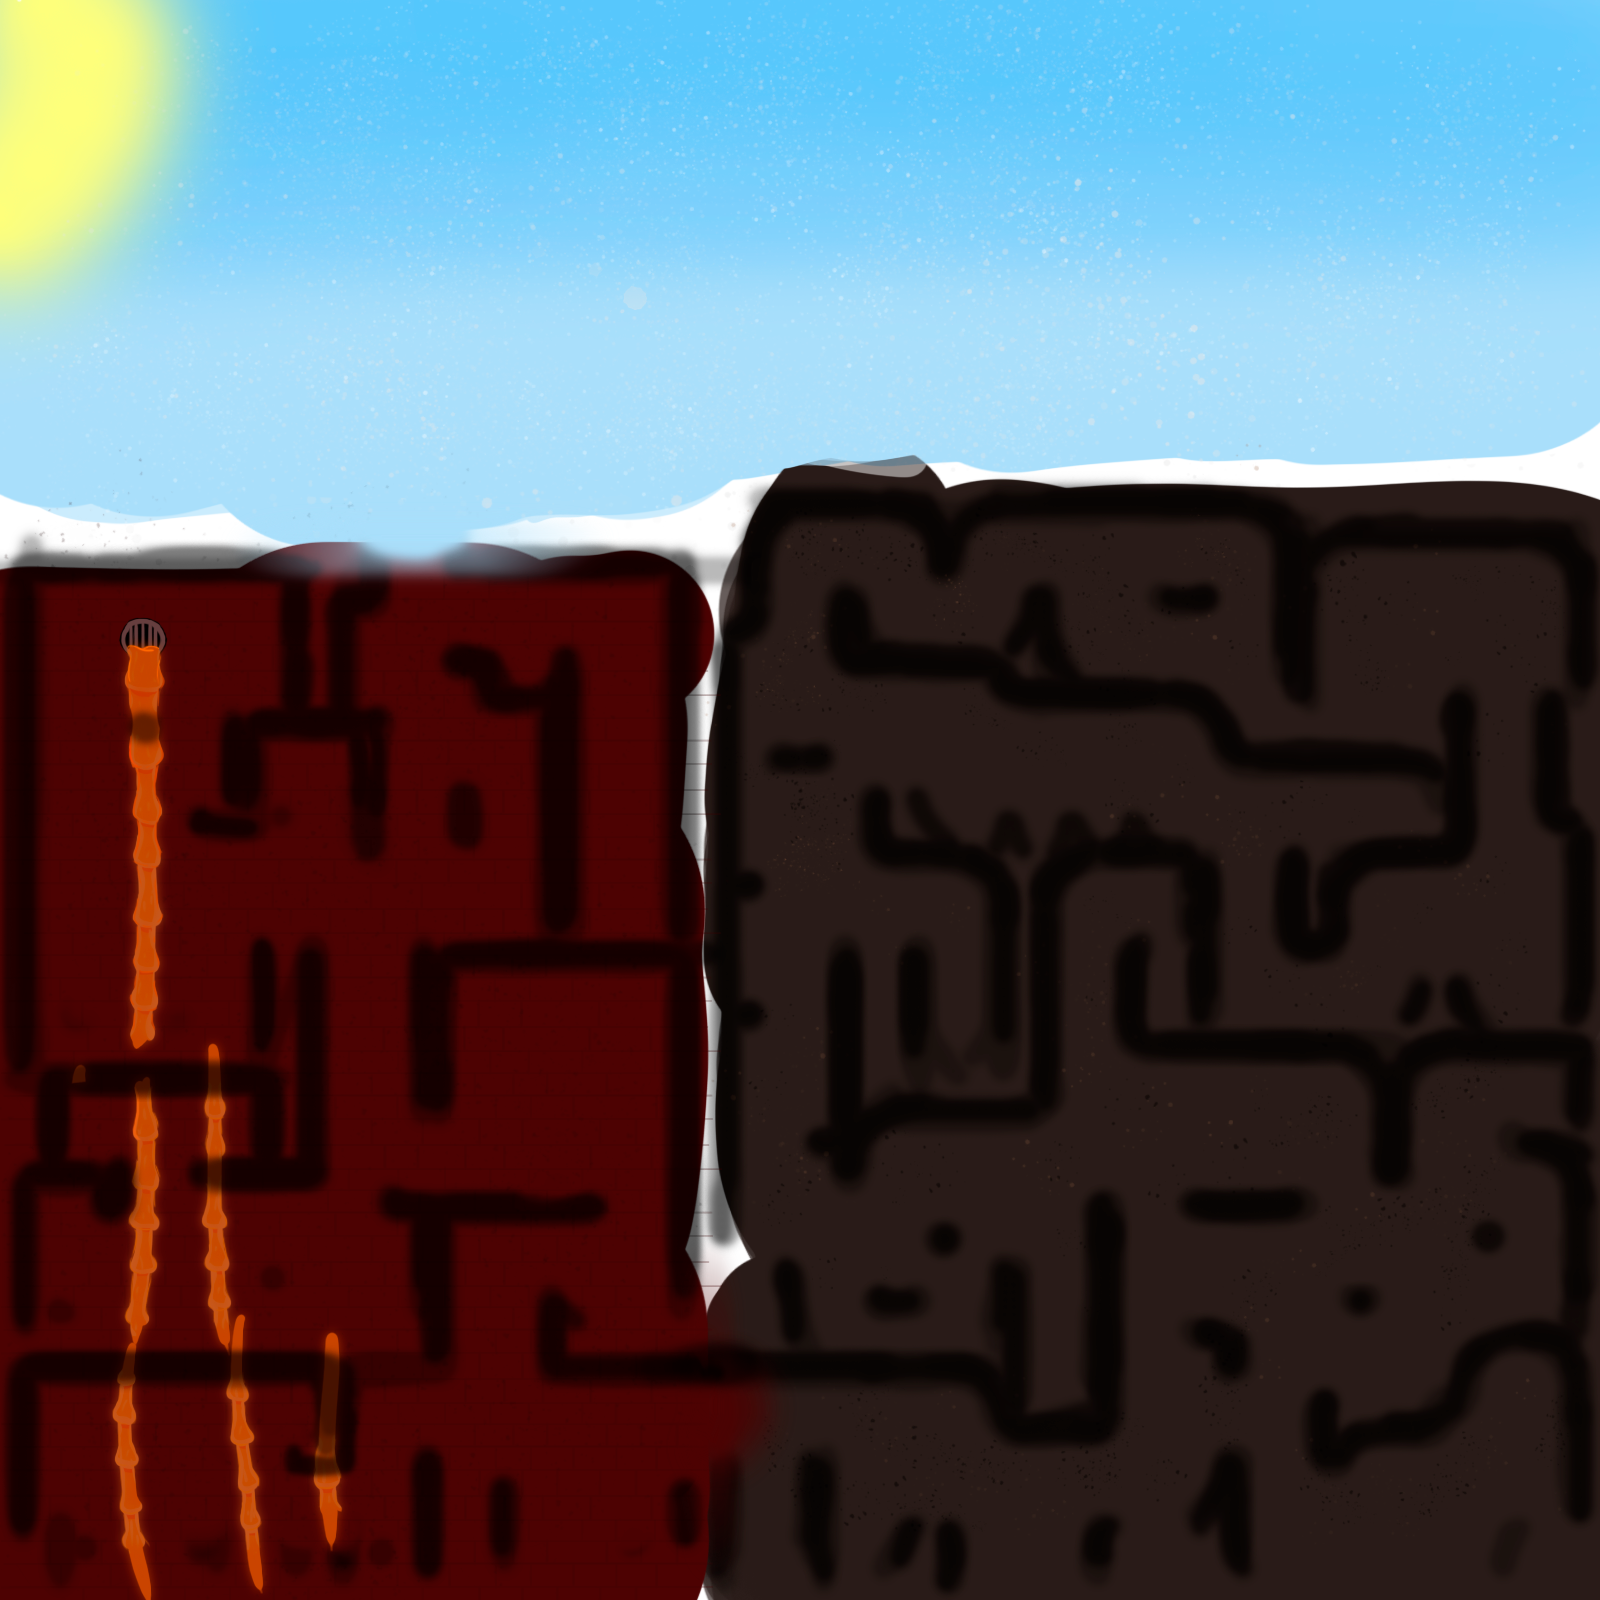
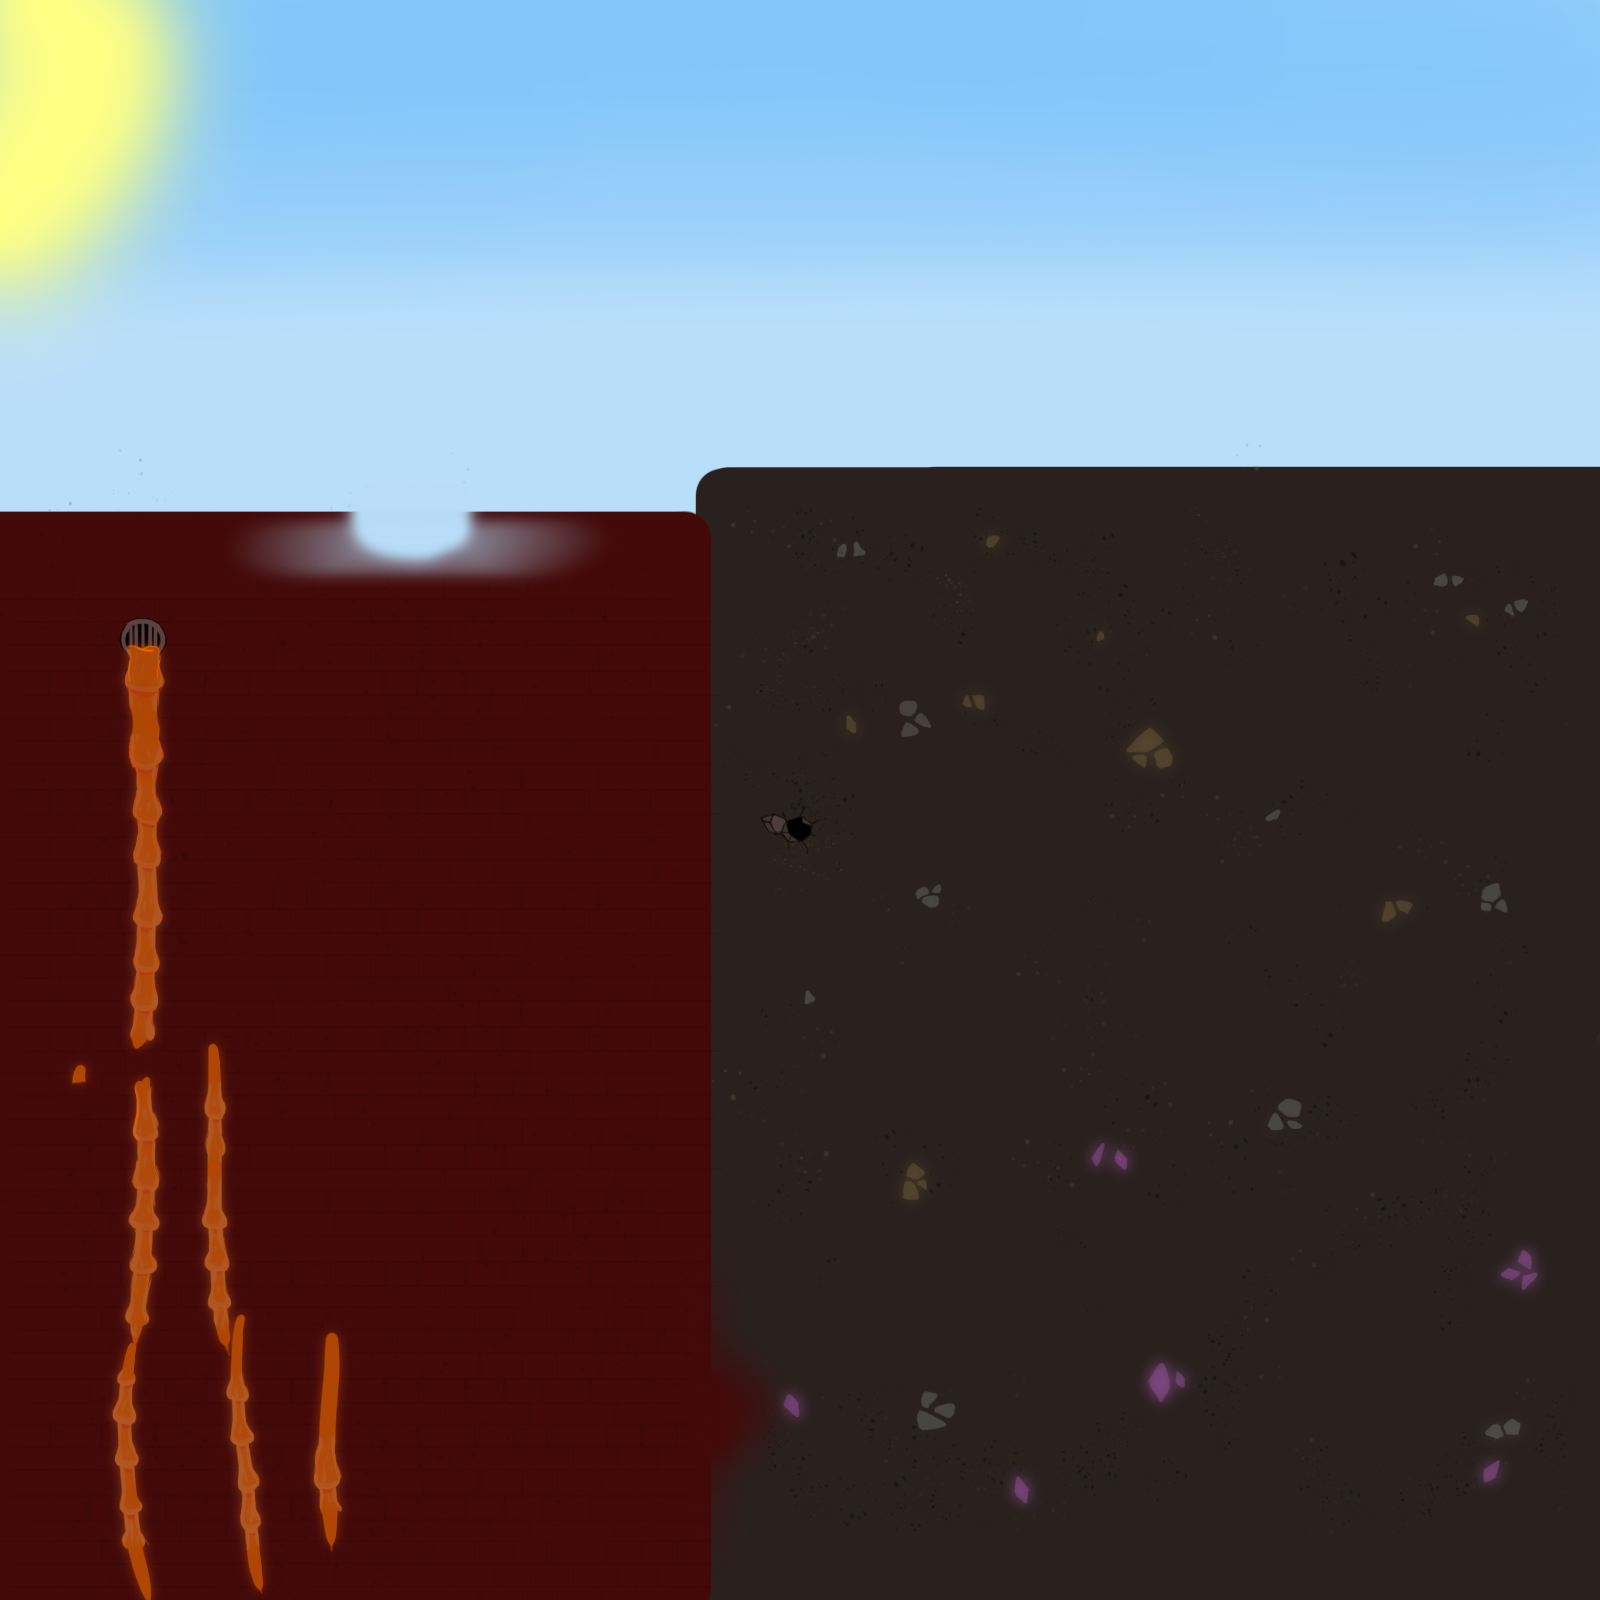
parallax et début d'implémentation ennemi

diff --git a/Souls Guardian.html b/Souls Guardian.html
@@ -83,6 +83,12 @@
                             { frameWidth: 32, frameHeight: 48 });
                     }
 
+                    // Préchargement apparence monstre
+                    this.load.image('monsterRightApparence', 'assets/monstre_right.png');
+                    this.load.image('monsterLeftApparence', 'assets/monstre_left.png');
+
+                    this.load.image('BordureEnnemi', 'assets/perso2.png');
+
                 // FONCTION CREATE - Gère le stade initial du jeu
 
                 function create(){
@@ -91,21 +97,16 @@
 
                         // NIVEAU - ajout des images de background
 
-                        /*this.background = this.game.add.tileSprite(0,
-                            this.game.height - this.game.cache.getImage('background').height,
-                            this.game.width,
-                            this.game.cache.getImage('background').height,
-                            'background'
-                        );
-                        this.secondPlan = this.game.add.tileSprite(0,
-                            this.game.height - this.game.cache.getImage('secondPlan').height,
-                            this.game.width,
-                            this.game.cache.getImage('secondPlan').height,
-                            'secondPlan'
-                        );*/
+                        this.backgroundParallax = this.add.tileSprite(0, 0, 1600, 1600, "background");
+                        this.backgroundParallax.setOrigin(0, 0);
+                        this.backgroundParallax.setScrollFactor(0.5, 1);
 
-                        this.add.image(800, 800, 'background')/*.setScrollFactorX(0.05)*/;
-                        this.add.image(800, 800, 'secondPlan')/*.setScrollFactorX(0.3)*/;
+                        this.sndPlanParallax = this.add.tileSprite(0, 0, 1600, 1600, "secondPlan");
+                        this.sndPlanParallax.setOrigin(0, 0);
+                        this.sndPlanParallax.setScrollFactor(0.9, 1);
+
+                        /*this.add.image(800, 800, 'background')/*.setScrollFactorX(0.05)*/;
+                        /*this.add.image(800, 800, 'secondPlan')/*.setScrollFactorX(0.3)*/;
 
                         // NIVEAU - Intégration de la map de TILED
                             // chargement de la carte
@@ -143,8 +144,9 @@
                                     tileset
                                     );
 
+                            esprits = this.physics.add.staticGroup();
                             espritsLayer = carteDuNiveau.getObjectLayer('espritsLayer')['objects'];
-                        
+
                         // NIVEAU - Plateformes solides
                         plateformes.setCollisionByProperty({estSolide: true });
 
@@ -165,21 +167,42 @@
 
                     //COLLECTIBLES
 
-                        esprits = this.physics.add.staticGroup();
-
                         espritsLayer.forEach(object => {
-                        let obj = esprits.create(object.x, object.y, 'espritCollectible');
+                        let obj = esprits.create(object.x + 16, object.y -16, 'espritCollectible');
                             obj.setScale(object.width/32, object.height/32);
                             obj.body.width = object.width;
                             obj.body.height = object.height;
                         });
 
+                    //Création monstre droite
+                    
+                    monstresRight = this.physics.add.group();
+                    monstresRightLayer = carteDuNiveau.getObjectLayer('monsterRightApparence');
+                    monstresRightLayer.objects.forEach( monstresRightLayer => {
+                        const MmonstresRightLayer = monstresRight.create( monstresRightLayer.x + 16, monstresRightLayer.y + 16, "monsterRightApparence").body.setAllowGravity(false).setBounce(1);
+                    });
+                    monstresRight.setVelocity(0, 150);
 
+                    //Création monstre gauche
+
+                    monstresLeft = this.physics.add.group();
+                    monstresLeftLayer = carteDuNiveau.getObjectLayer('monsterLeftApparence');
+                    monstresLeftLayer.objects.forEach( monstresLeftLayer => {
+                        const MMonstresLeftLayer = monstresLeft.create( monstresLeftLayer.x + 16, monstresLeftLayer.y + 16, "monsterLeftApparence").body.setAllowGravity(false).setBounce(1);
+                    });
+                    monstresLeft.setVelocity(0, 150);
+
+                    //Création des Bordures délimitant les déplacements des Ennemis
+                    limitesMonstres = this.physics.add.group();
+                    limitesMonstresLayer = carteDuNiveau.getObjectLayer('BordureEnnemi');
+                    limitesMonstresLayer.objects.forEach( limitesMonstresLayer => {
+                        const LimitesMonstresLayer = limitesMonstres.create( limitesMonstresLayer.x + 16, limitesMonstresLayer.y +16, "BordureEnnemi").body.setAllowGravity(false).setImmovable(true);
+                    });                
 
                     // PLAYER
 
                         // PLAYER - génération du sprite du personnage aux coordonnées, à partir de la sprite sheet (png avec les animations du perso)
-                        player = this.physics.add.sprite(1352, 680, 'perso');
+                        player = this.physics.add.sprite(10, 10, 'perso');
 
                         // PLAYER - Collision entre le joueur et les confins du monde
                         player.setCollideWorldBounds(true);
@@ -277,8 +300,10 @@ function lockWallJump(){
     if(player.body.onFloor()){
         wallJumpLocked = true;
         
+        if(wallIce == false){
         // Coupe l'inertie du saut
-        /*player.setAccelerationX(0);*/
+        player.setAccelerationX(playerInertie);
+        }
     }
     else{
         wallJumpLocked = false;
@@ -330,7 +355,7 @@ function movementPlayer(){
                 player.anims.play('left', true); //et animation => gauche
                 player.setAccelerationX(-playerInertie);
             }
-            }
+        }
         
         // DEPLACEMENT PLAYER - DROITE
         else if ((cursors.right.isDown || keyD.isDown) && commandesLocked == false){ //sinon si la touche droite est appuyée
@@ -340,13 +365,13 @@ function movementPlayer(){
                 player.anims.play('right', true); //et animation => gauche
                 player.setAccelerationX(playerInertie);
             }
-            }
+        }
         
         // DEPLACEMENT - IDLE
         else { 
             player.setVelocityX(0); //vitesse nulle
             player.anims.play('turn'); //animation fait face caméra
-            }
+        }
         
         // DEPLACEMENT - SAUT
         if (cursors.up.isDown || spaceBar.isDown){
